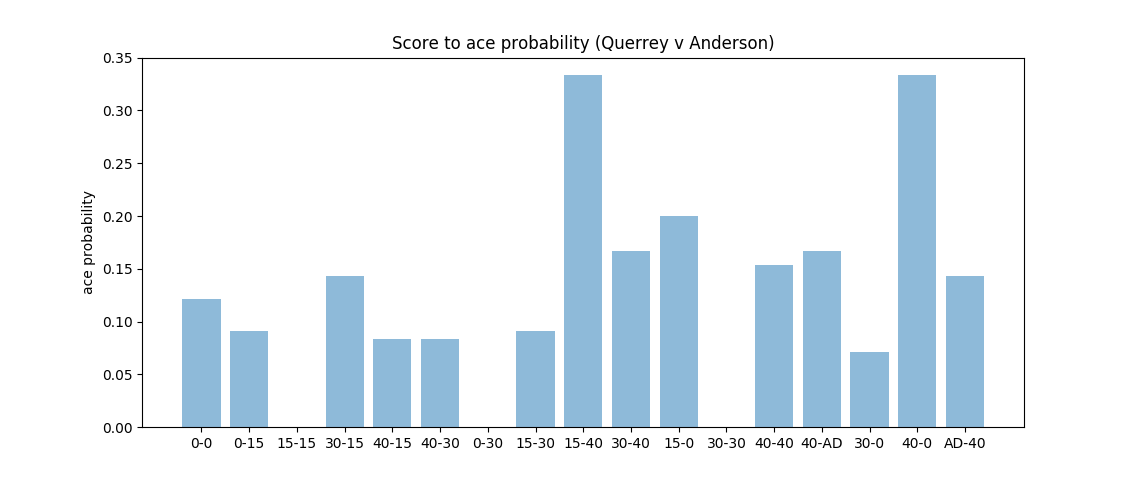
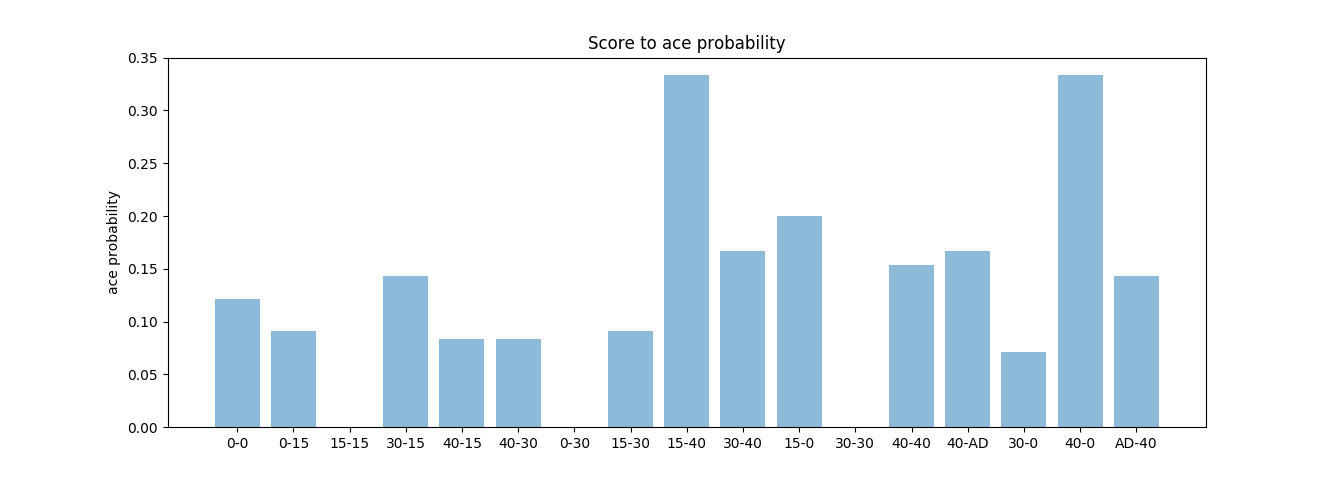
update graphs and p values now that glitch is fixed

diff --git a/main.py b/main.py
@@ -168,17 +168,17 @@ def show_bar_graph(dic, yname):
 
 if __name__ == '__main__':
 	FILE_PATH = 'tennis_MatchChartingProject/charting-m-points.csv'
-	NUM_ROWS = None
-	SCORE_OF_INTEREST = '40-AD'
+	NUM_ROWS = 202
+	SCORE_OF_INTEREST = '15-40'
 
 	df = init_dataframes()
-	chisq, p = win_chi_square(df)
-	dic = score_to_win_probability(df)
+	chisq, p = ace_chi_square(df)
+	dic = score_to_ace_probability(df)
 	print([
 		chisq,
 		p,
 	])
-	show_bar_graph(dic, 'win')
+	show_bar_graph(dic, 'ace')
 
 
 

diff --git a/README.md b/README.md
@@ -14,7 +14,7 @@ Tennis is a mental game.  Can the current score within a game predict outcome?  
 
 (data from `JeffSackmann/tennis_MatchChartingProject > charting-m-points.csv` which lists about 300,000 tennis points coming from about 2,000 men's matches)
 
-The data says that I'm crazy!  But it also points out a surprising result.  The 40-AD score is the situation where servers are most likely to lose the next point.  A Chi-squared test confirms the significance of this with a p-value so low that numpy rounds it down to 0.
+The data says that I'm crazy!  But it also points out a surprising result.  The 40-AD score is the situation where servers are most likely to lose the next point.  A Chi-squared test confirms the significance of this with a p-value of order 10^(-13).
 
 The interesting thing about this is that the 40-AD score and the 30-40 score are arguably identical situations.  Both scores result in losing the game if the next point is lost, and both scores result in 40-40 if the next point is won.  But the data shows that these situations are psychologically different.  Servers in the 40-AD position have been serving for a longer amount of time and weren't able to close out the game sooner.  Returners in that position may be tough-customers who are chomping at the bit to steal the game from the server.
 
@@ -22,7 +22,7 @@ When I initially ran this graph, I only ran it on the first 200 data points.  Th
 
 ![](score-to-win-querrey-anderson.png)
 
-These results seem to confirm my suspicion for servers reacting strongly to a 0-30 situation (but is inconclusive with a Chi-squared test p-value of 0.086).  It turns out that the first 200 data points correspond to a match between Sam Querrey and Kevin Anderson.  Sam Querrey is a very strong server.  Is it possible that this correlation holds for strong servers in general?  Can we find more patterns if we cluster our players into different categories?  This leads into the next question.
+These results seem to confirm my suspicion for servers reacting strongly to a 0-30 situation (but is inconclusive with a Chi-squared test p-value of 0.09).  It turns out that the first 200 data points correspond to a match between Sam Querrey and Kevin Anderson.  Sam Querrey is a very strong server.  Is it possible that this correlation holds for strong servers in general?  Can we find more patterns if we cluster our players into different categories?  At the very least, collecting more data points on "big servers" or Sam Querrey in particular can make the test conclusive.
 
 ### Question 2
 
@@ -32,13 +32,11 @@ Are serve-and-volleyers streakier than others?  This question was posed by Jeff 
 
 Going back to the "score to win-next-point" analysis and the thought that certain types of players (such as the "big server" Sam Querrey) may behave differently in certain situations, it gave me the idea to run a "score to ace" analysis in much the same way.
 
-(NTS: are we looking at wrong Pts score?  I don't think so.  I think the Pts refers to the score BEFORE the point starts and Pts after refers to score AFTER end of point).
-
 The results are again quite interesting.  Looking at all the matches,
 
 ![](score-to-ace.png)
 
-there is a correlation between aces and the scores 30-0, 40-0, and 40-15.  This suggests that when the server is ahead, he is confident, more willing to take risks, and more likely to hit an ace.  (A Chi-squared test on the 40-0 situation yields a p-value near 0.)
+there is a correlation between aces and the scores 30-0, 40-0, and 40-15.  This suggests that when the server is ahead, he is confident, more willing to take risks, and more likely ace.  (A Chi-squared test on the 40-0 situation confirms with a p-value of order 10^(-107).)
 
 Now, zooming in on the match between Sam Querrey and Kevin Anderson, we have some similarities and differences.
 
